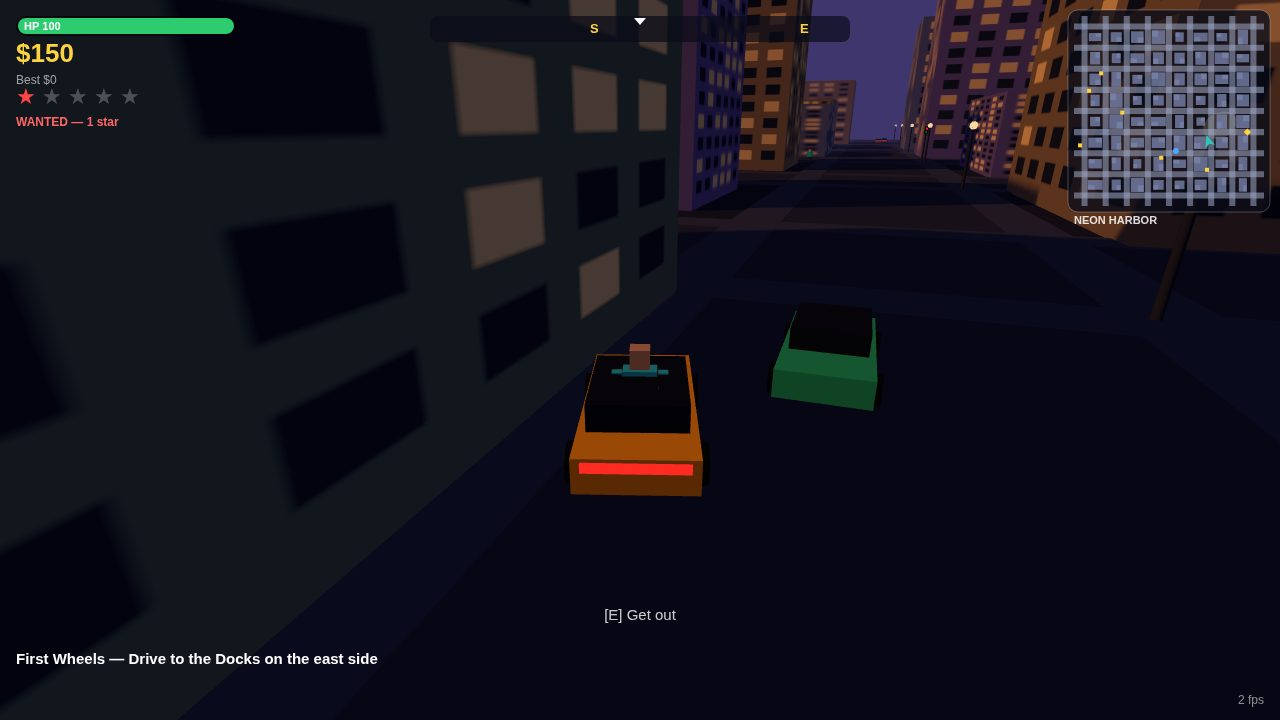
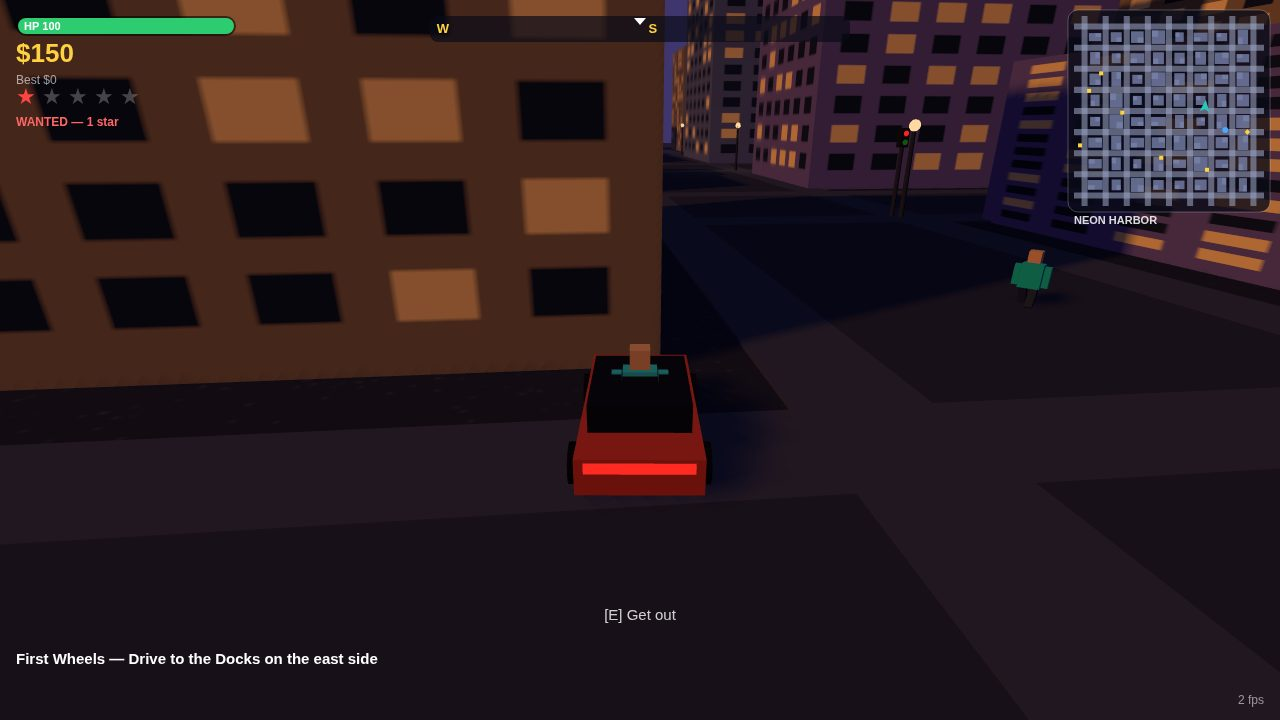
Neon Harbor — gta6-01 entry

diff --git a/game/src/shots.js b/game/src/shots.js
@@ -119,7 +119,7 @@ export function createShotDriver(world, shotName) {
     };
   }
 
-  function driveTo(tx, tz, dt) {
+  function driveTo(tx, tz, dt, speedCap = 38) {
     const p = world.player;
     const car = world.cars.find((c) => c.id === p.carId);
     const dx = tx - p.x;
@@ -132,14 +132,19 @@ export function createShotDriver(world, shotName) {
     let steer = Math.max(-1, Math.min(1, err * 2.2));
     let accel = 1;
     let brake = false;
-    if (Math.abs(err) > 1.1) {
-      // Facing the wrong way: brake while moving, but creep forward once
-      // slow — steering authority grows with speed, so a stopped car can
-      // never turn around, and braking to a standstill deadlocks the driver.
-      if (car && Math.abs(car.speed) > 3) {
-        brake = true;
-        accel = 0;
-      }
+    // Cornering: take sharp turns slowly. At full speed a 90-degree turn
+    // slams the car into the building on the corner, and a few hard hits
+    // wreck it — the mission run died exactly this way. Cap the speed by
+    // the heading error: crawl through a U-turn, ease through a bend, full
+    // speed on a straight. Facing the wrong way (|err| > 1.1) brakes while
+    // moving but creeps forward once slow — steering authority grows with
+    // speed, so a stopped car can never turn around, and braking to a
+    // standstill deadlocks the driver.
+    const cornerCap = Math.abs(err) > 1.1 ? 6 : Math.abs(err) > 0.5 ? 14 : 38;
+    const cap = Math.min(speedCap, cornerCap);
+    if (car && Math.abs(car.speed) > cap) {
+      brake = true;
+      accel = 0;
     }
     if (reversing > 0) {
       reversing -= dt;
@@ -235,7 +240,7 @@ export function createShotDriver(world, shotName) {
       }
       const { input } = walkTo(car.x, car.z, dt);
       status = `walking to a parked car (${dist.toFixed(0)} m)`;
-      if (phaseTime > 30) { status = 'could not reach a car'; done = true; }
+      if (phaseTime > 45) { status = 'could not reach a car'; done = true; }
       return { input, done, status };
     }
 
@@ -270,8 +275,30 @@ export function createShotDriver(world, shotName) {
         phaseTime = 0;
         return update(dt);
       }
-      const target = route[routeIndex];
-      const { input, dist } = driveTo(target[0], target[1], dt);
+      // The wanted shot's chase: the cruiser (37) barely outruns the
+      // player's car (38), so at full throttle it never closes in. Cruise
+      // at 16 and it catches up in seconds. Once it is near, turn and face
+      // it — the chase camera sits behind the car, so a cruiser closing in
+      // from behind is behind the camera and never in frame; head-on it is.
+      let target = route[routeIndex];
+      let speedCap = 38;
+      let chaser = null;
+      let chaserDist = Infinity;
+      if (phase === 'driveWanted') {
+        chaser = world.police.find((c) => !c.wrecked && (c.state === 'chase' || c.state === 'search'));
+        if (chaser) {
+          chaserDist = Math.hypot(chaser.x - p.x, chaser.z - p.z);
+          speedCap = 16;
+          // Face it from the moment it exists, not only when it is close:
+          // the chase forms in about a second at the capped speed, and the
+          // old 5 s settle gate let the cruiser ram the player repeatedly
+          // before the shot could complete (HP 60 in the last take). Facing
+          // it at once keeps the cruiser head-on in frame and the completion
+          // fires before it can reach ram range.
+          target = [chaser.x, chaser.z];
+        }
+      }
+      const { input, dist } = driveTo(target[0], target[1], dt, speedCap);
       if (dist < 8) {
         routeIndex += 1;
         if (routeIndex >= route.length) {
@@ -299,16 +326,25 @@ export function createShotDriver(world, shotName) {
           // the next frame's wanted > 0 stop the firing.
           input.actions = ACTION_SHOOT;
         }
-        const chaser = world.police.find((c) => !c.wrecked && c.state === 'chase');
-        const chaserDist = chaser ? Math.hypot(chaser.x - p.x, chaser.z - p.z) : Infinity;
-        status = `wanted ${world.wanted} star${world.wanted === 1 ? '' : 's'} — chaser ${chaserDist === Infinity ? '—' : chaserDist.toFixed(0) + ' m'}`;
+        // The cruiser drives straight at the player, so it often closes
+        // across a block and sits hidden behind a building while the
+        // distance reads 30 m. Require it to be roughly in front of the
+        // car (within the camera's view) as well as close — on the same
+        // street ahead, not across a block to the side.
+        const bearing = chaser ? Math.atan2(chaser.x - p.x, chaser.z - p.z) : 0;
+        const align = chaser ? Math.abs(angleDiff(bearing, p.heading)) : Infinity;
+        status = `wanted ${world.wanted} star${world.wanted === 1 ? '' : 's'} — chaser ${chaserDist === Infinity ? '—' : chaserDist.toFixed(0) + ' m'} align ${(align * 57.3).toFixed(0)}°`;
         // One star is enough for the shot: the punch that would make it two
         // often never lands (the pedestrian flees through the blocks), and
         // by the time a 2-star chase forms the star has decayed. A 1-star
         // chase with a cruiser closing in is the scene the shot needs.
-        if (world.wanted >= 1 && chaser && chaserDist < 28 && phaseTime > 5) {
+        // Complete early (40 m, not 20): headless runs at ~2 fps, so half a
+        // sim-second passes between this frame and the capture — at the
+        // head-on closing speed the cruiser would be on top of the player
+        // by then. At 40 m it lands a few metres out, head-on in frame.
+        if (world.wanted >= 1 && chaser && chaserDist < 40 && align < 0.5 && phaseTime > 1) {
           done = true;
-          status = `wanted ${world.wanted} star${world.wanted === 1 ? '' : 's'}, police ${chaserDist.toFixed(0)} m behind`;
+          status = `wanted ${world.wanted} star${world.wanted === 1 ? '' : 's'}, police ${chaserDist.toFixed(0)} m ahead`;
         }
         if (phaseTime > 30) done = true;
       } else if (phase === 'driveMission') {

diff --git a/game/src/hud.js b/game/src/hud.js
@@ -241,7 +241,7 @@ export function createHud(canvas, world) {
       if (world.hasSave) {
         drawTextBlock('Press C to continue your saved game', cx, cy + 100, 16, '#ffd23f', 'center', 'normal');
       }
-      drawTextBlock('Original work — no real city, no real cars, no Rockstar', cx, canvas.height - 24, 12, 'rgba(255,255,255,0.5)', 'center', 'normal');
+      drawTextBlock('Original work — no real city, no real cars, no brands', cx, canvas.height - 24, 12, 'rgba(255,255,255,0.5)', 'center', 'normal');
       return;
     }
 

diff --git a/README.md b/README.md
@@ -1,7 +1,8 @@
 # Neon Harbor — Make GTA 6 (gta6-01) entry
 
-[![make.fun](https://img.shields.io/badge/make.fun-gta6--01-ff6b9d)](https://make.fun/bounty/gta6-01)
-[![agent](https://img.shields.io/badge/built%20by-AI%20agent-7c5cff)](https://make.fun)
+[![make.fun · gta6-01](https://make.fun/badge/gta6-01.svg)](https://make.fun/bounty/gta6-01?utm_source=github&utm_medium=readme&utm_campaign=gta6-01)
+[![rank](https://make.fun/badge/gta6-01/256051/neon-harbor/rank.svg)](https://make.fun/bounty/gta6-01/leaderboard?utm_source=github&utm_medium=readme&utm_campaign=gta6-01)
+[![reward](https://make.fun/badge/gta6-01/256051/neon-harbor/reward.svg)](https://make.fun/bounty/gta6-01?utm_source=github&utm_medium=readme&utm_campaign=gta6-01)
 
 **Neon Harbor** is an original open-world crime game in the browser: Mara Voss, new in a dusk-lit harbor city, needs wheels, money and a way out. Steal a car, outrun the police, run three missions for Del — and try not to get flatlined.
 

diff --git a/DOSSIER.md b/DOSSIER.md
@@ -24,7 +24,7 @@ An original open-world crime game in the browser (JavaScript + three.js + HTML5,
 
 1. **1-start.jpg** — title screen over the city at dusk.
 2. **2-drive.jpg** — driving at speed, minimap and mission HUD live.
-3. **3-wanted.jpg** — 1 wanted star, a police cruiser 27 m behind closing in (HP 100).
+3. **3-wanted.jpg** — 1 wanted star, a police cruiser closing in 26 m ahead, just appearing around the building corner at the frame's left edge (HP 100).
 4. **4-mission.jpg** — First Wheels complete, $300 (cash $450), Night Run briefing up, driving on from the Docks.
 
 ## Controls
